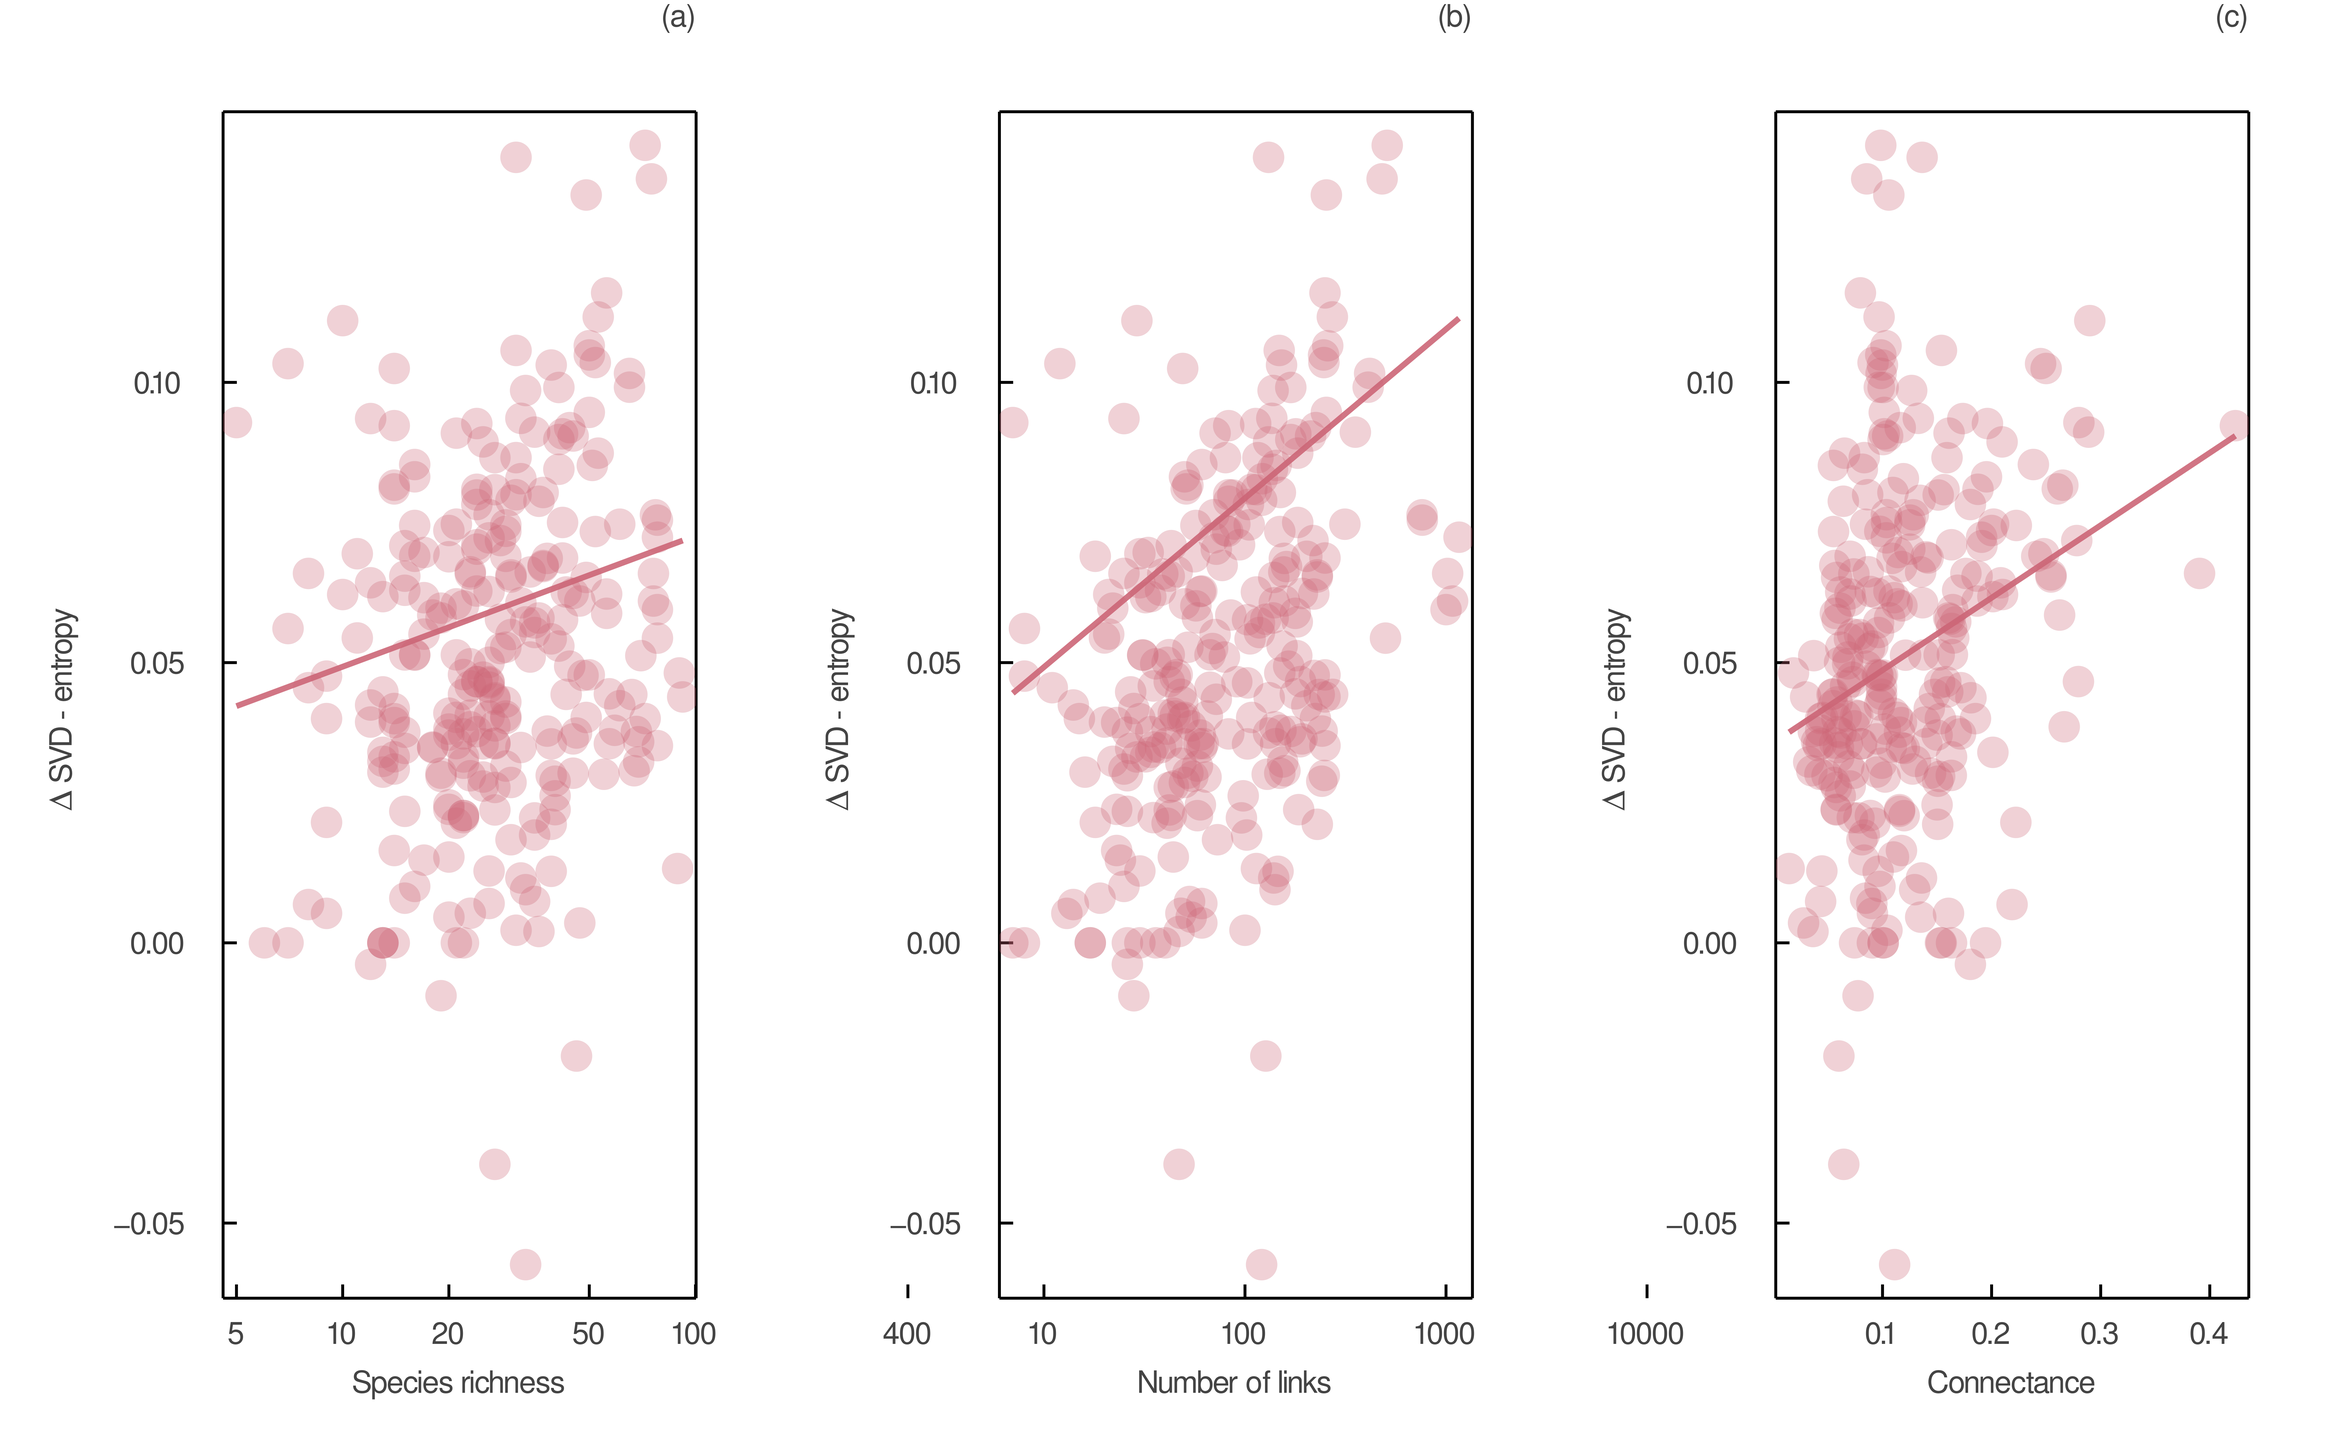
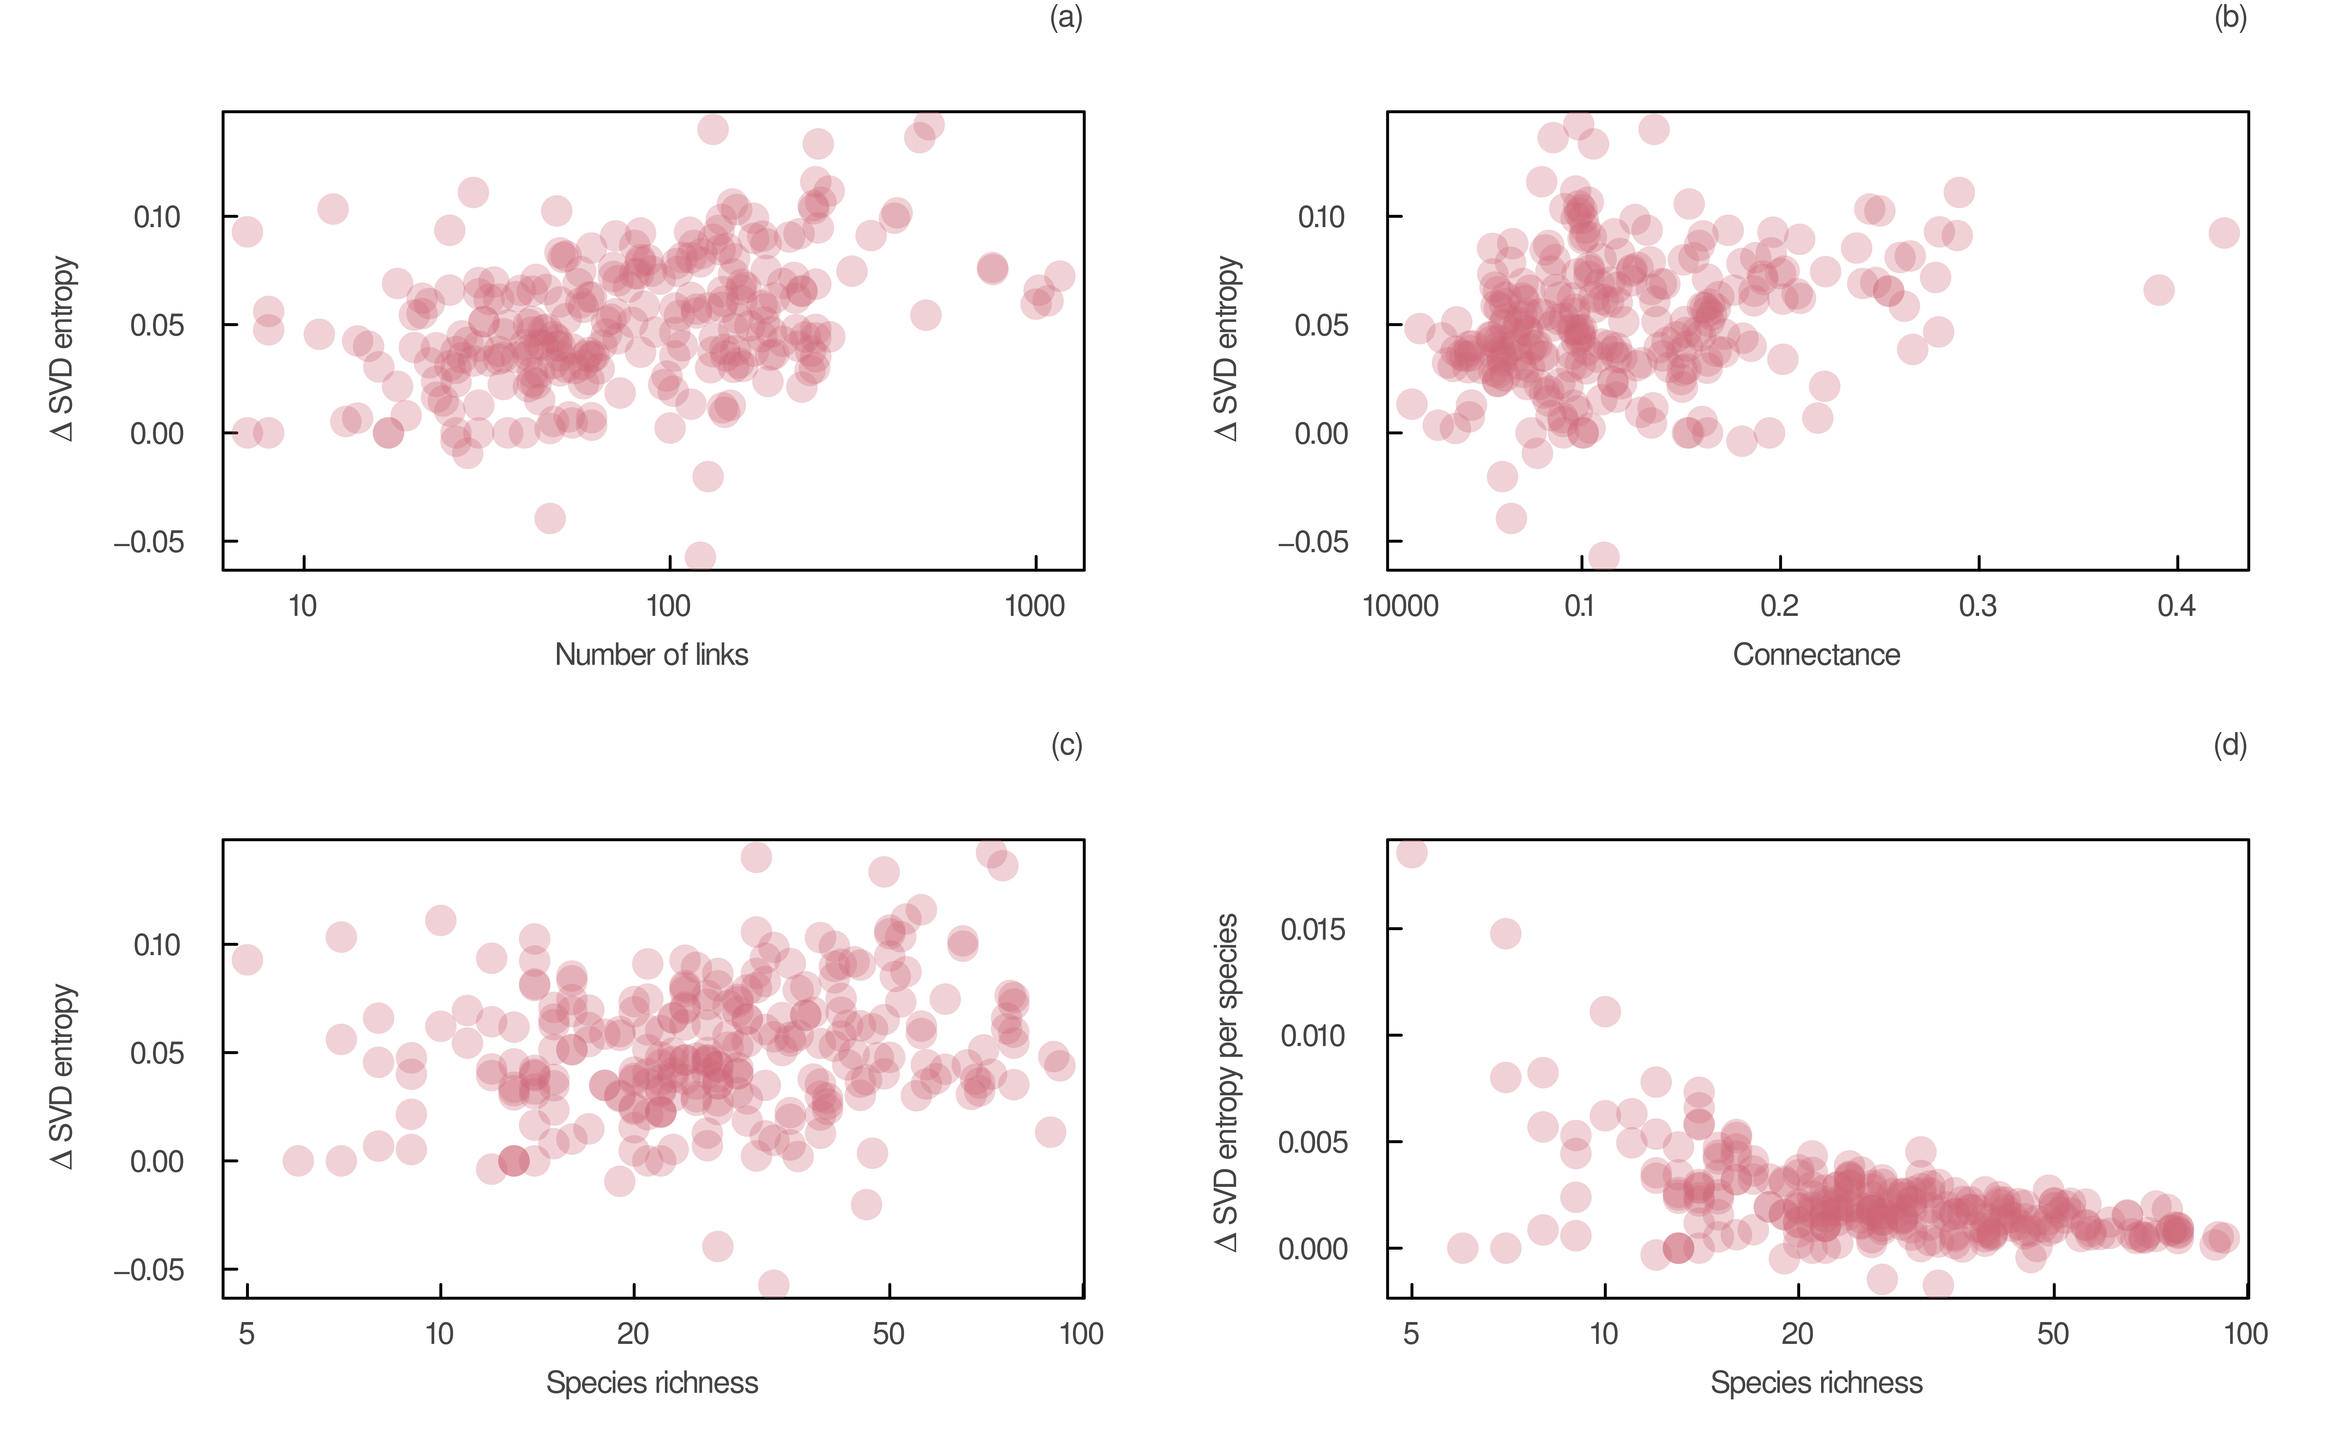
✨ standardize the difference in entropy with species richness

diff --git a/README.md b/README.md
@@ -90,7 +90,7 @@ We solved @eq:lagrange4_jdd and @eq:lagrange5_jdd numerically using the Julia li
 
 We assessed the empirical support of this expression using all food webs in our complete dataset. First, we predicted the joint degree distribution of maximum entropy for each of these food webs, i.e. using their number of species and number of interactions as state variables. Then, we sampled one realization of the joint degree sequence for each network using the probabilities given by the joint degree distribution, while fixing the total number of interactions. This gave us a random realization of the number of prey and predators for each species in each network. We standardized the predicted $k_{out}$ and $k_{in}$ of each species by the total number of species in their network to generate relative values, which can be compared across networks. In @fig:joint_dd, we show the relationship between these relative $k_{out}$ and $k_{in}$ values obtained from the joint degree distributions of maximum entropy (left panel) and in empirical networks (central panel). We observe that our model predicts higher values of generality and vulnerability compared to empirical food webs (i.e. relative values of $k_{out}$ and $k_{in}$ both closer to $1$) for many species. In other words, our model predicts that species that have many predators also have more prey than what is observed empirically (and conversely). This is not surprising, given that our model did not include biological factors preventing generalist predators from having many prey. Nevertheless, with the exception of these generalist species, MaxEnt adequately predicts that most species have low generality and vulnerability values. 
 
-Examining the difference between predicted and empirical values for each species gives a slightly different perspective (right panel of @fig:joint_dd). To make that comparison, we must first associate each of our predictions to a specific species in a network. Indeed, our predicted joint degree sequences have the same number of species (elements) as their empirical counterparts, but they are species agnostic. In other words, instead of predicting a value for each species directly, we predicted the entire joint degree sequence without taking into account species' identity. The challenge is thus to adequately associate predictions with empirical data. In @fig:joint_dd, we present these differences when species are ordered by their total degree in their respective networks (i.e. by the sum of their in and out-degrees). This means that the species with the highest total degree in its network will be associated with the highest prediction, and so forth. Doing so, we see that species predicted to have a higher number of predators than what is observed generally have a lower number of prey than what is observed (and conversely). This is also shown in fig. S1, which represents the relationship between prediction errors in the *absolute* values of $k_{out}$ and $k_{in}$ across networks of varying levels of species richness. This is because the difference in total degree ($k_{out} + k_{in}$) between predictions and empirical data is minimized when species are ranked by their total degree (i.e. the average deviation of the sum of relative $k_{out}$ and $k_{in}$ is close to $0$ across all species). This result thus shows that the difference between predicted and empirical total degrees is low for most species when ordered by their total degrees. There are no apparent biases towards in or out degrees. In fig. S2, we show how these differences change when species are instead ordered by their out-degrees (left panel) and in-degrees (right panel), i.e. when minimizing the error in the estimation of the out and in-degrees, respectively.
+Examining the difference between predicted and empirical values for each species gives a slightly different perspective (right panel of @fig:joint_dd). To make that comparison, we must first associate each of our predictions to a specific species in a network. Indeed, our predicted joint degree sequences have the same number of species (elements) as their empirical counterparts, but they are species agnostic. In other words, instead of predicting a value for each species directly, we predicted the entire joint degree sequence without taking into account species' identity. The challenge is thus to adequately associate predictions with empirical data. In @fig:joint_dd, we present these differences when species are ordered by their total degree in their respective networks (i.e. by the sum of their in and out-degrees). This means that the species with the highest total degree in its network will be associated with the highest prediction, and so forth. Doing so, we see that species predicted to have a higher number of predators than what is observed generally have a lower number of prey than what is observed (and conversely). This is also shown in fig. S1, which represents the relationship between prediction errors in the *absolute* (non-relative) values of $k_{out}$ and $k_{in}$ across networks of varying levels of species richness. This is because the difference in total degree ($k_{out} + k_{in}$) between predictions and empirical data is minimized when species are ranked by their total degree (i.e. the average deviation of the sum of relative $k_{out}$ and $k_{in}$ is close to $0$ across all species). This result thus shows that the difference between predicted and empirical total degrees is low for most species when ordered by their total degrees. There are no apparent biases towards in or out degrees. In fig. S2, we show how these differences change when species are instead ordered by their out-degrees (left panel) and in-degrees (right panel), i.e. when minimizing the error in the estimation of the out and in-degrees, respectively.
 
 ![Relative number of predators ($k_{in}$) as a function of the relative number of prey ($k_{out}$) for each species in all (a) empirical and (b) predicted joint degree sequences. The predicted joint degree sequences were obtained after sampling one realization of the joint degree distribution of maximum entropy for each network while keeping the total number of interactions constant. (c) Difference between predicted and empirical values when species are ordered according to their total degrees. Due to significant data overlap, all relationships are represented as 2D histograms. The color bar indicates the number of species that fall within each bin.](figures/joint_degree_dist.png){#fig:joint_dd}
 
@@ -211,7 +211,7 @@ Table: Standardized mean difference between predicted network measures and empir
 
 Table: Standardized mean difference between predicted network measures and empirical data for all food webs in our abundance dataset ($N = 19$). Positive (negative) values indicate that the measure is overestimated (underestimated) on average. Neutral: Neutral model of relative abundances. Null 1: Type I null model based on connectance. MaxEnt 1: Type I heuristic MaxEnt model based on connectance. Null 2: Type II null model based on the joint degree sequence. MaxEnt 2: Type II heuristic MaxEnt model based on the joint degree sequence. $\rho$: nestedness measured by the spectral radius of the adjacency matrix. $maxtl$: maximum trophic level. $diam$: network diameter. $MxSim$: average maximum similarity between species pairs. $Cannib$: proportion of cannibal species (self loops). $Omniv$: proportion of omnivorous species. *entropy*: SVD entropy. {#tbl:measures_abund}
 
-Moreover, we found that the entropy of empirical food webs was slightly lower than their maximum entropy when constrained by their joint degree sequence (fig. S4). Empirical food webs had an SVD entropy of $0.89 \pm 0.04$, compared to an SVD entropy of $0.94 \pm 0.03$ for networks generated using the type II heuristic MaxEnt model. The relationship between the SVD entropy of empirical food webs and their maximum entropy is plotted in the last panel of @fig:measures. The slight increase in the SVD entropy of MaxEnt food webs compared to empirical food webs confirms that our method generated more complex networks. Even though we found that many networks are close to their maximum entropy, the low predictability of entropy may be indicative of additional constraints shaping food-web structure, especially for networks with low SVD entropy. Incorporating more constraints into the model could increase its capacity to generate networks with an adequate level of complexity, as shown by the decrease in predictive errors of entropy of the type II heuristic MaxEnt model compared to the one based on connectance (@tbl:measures_all). Moreover, we found no clear relationship between the increase in SVD entropy and the number of species, the number of interactions, and connectance (fig. S5). This suggests that the slight increase in entropy between empirical food webs and their maximum entropy configuration was sufficient to modify some of their properties, regardless of their number of species and their number of interactions. 
+Moreover, we found that the entropy of empirical food webs was slightly lower than their maximum entropy when constrained by their joint degree sequence (fig. S4). Empirical food webs had an SVD entropy of $0.89 \pm 0.04$, compared to an SVD entropy of $0.94 \pm 0.03$ for networks generated using the type II heuristic MaxEnt model. The relationship between the SVD entropy of empirical food webs and their maximum entropy is plotted in the last panel of @fig:measures. The slight increase in entropy confirms that our method generated more complex networks. Even though we found that many measures of empirical networks are close to the ones of their maximum entropy configuration, the relatively low predictability of entropy itself may be indicative of additional constraints shaping food-web structure, especially for networks with low SVD entropy. Incorporating more constraints into the model could increase its capacity to generate networks with an adequate level of complexity, as shown by the decrease in predictive errors of entropy of the type II heuristic MaxEnt model compared to the one based on connectance (@tbl:measures_all). Additionally, we found no clear relationship between the increase in SVD entropy and the number of species, the number of interactions, and connectance (fig. S5). This suggests that our model captured the complexity of small and large networks on a similar level and that its capacity to reproduce food-web structure was unrelated to the order and size of the network. In other words, the gap in entropy between empirical food webs and their maximum entropy configuration may be the result of additional constraints that were not taken into account in the model regardless of the number of species and the number of interactions. 
 
 A direct comparison of the structure of maximum entropy food webs, constrained by the joint degree sequence, with empirical data also supports the results depicted in @tbl:measures_all. In @fig:measures, we show how well empirical measures are predicted by the type II heuristic MaxEnt model. In accordance with our previous results, we found that nestedness was very well predicted by our model. However, the model overestimated the maximum trophic level and network diameter, especially when the sampled food web had intermediate values of these measures. In fig. S6, we show that the pairwise relationships between the four measures in @fig:measures and species richness in empirical food webs are similar (in magnitude and sign) to the ones found in food webs generated using the type II heuristic MaxEnt model. This indicates that the number of species in the network does not seem to impact the ability of the model to reproduce food-web structure. 
 

diff --git a/appendix/s1.md b/appendix/s1.md
@@ -11,6 +11,6 @@ order: 1
 
 ![(a) Distribution of the SVD entropy of empirical and maximum entropy food webs. Maximum entropy networks were obtained using the type II heuristic MaxEnt model based on the joint degree sequence. (b) Distribution of z-scores of the SVD entropy of all empirical food webs. Z-scores were computed using the mean and standard deviation of the distribution of SVD entropy of MaxEnt food webs (type II heuristic MaxEnt model). The dash line corresponds to the median z-score.](figures/entropy_distribution.png){#fig:entropy_dist}
 
-![Difference in SVD entropy between maximum entropy and empirical food webs as a function of (a) species richness, (b) the number of interactions, and (c) connectance. Maximum entropy networks were obtained using the type II heuristic MaxEnt model based on the joint degree sequence. Regression lines are plotted in each panel.](figures/difference_entropy.png){#fig:entropy_size}
+![Difference in SVD entropy between maximum entropy and empirical food webs as a function of (a) the number of interactions, (b) connectance, and (c) species richness. (d) Standardization of the difference in SVD entropy with respect to species richness as a function of species richness. The exponential decrease in the difference of SVD entropy per species with species richness offers a complementary perspective supporting the lack of relationship depicted in panel c. Maximum entropy networks were obtained using the type II heuristic MaxEnt model based on the joint degree sequence.](figures/difference_entropy.png){#fig:entropy_size}
 
 ![Structure of empirical and maximum entropy food webs as a function of species richness. Maximum entropy networks were obtained using the type II heuristic MaxEnt model based on the joint degree sequence. (a) Nestedness (estimated using the spectral radius of the adjacency matrix), (b) the maximum trophic level, (c) the network diameter, and (d) the SVD entropy were measured on these empirical and maximum entropy food webs and plotted against species richness. Regression lines are plotted in each panel.](figures/measures_richness.png){#fig:measures_richness}
